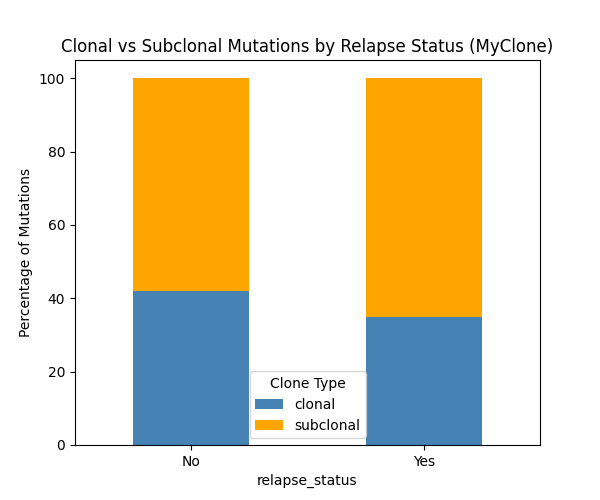
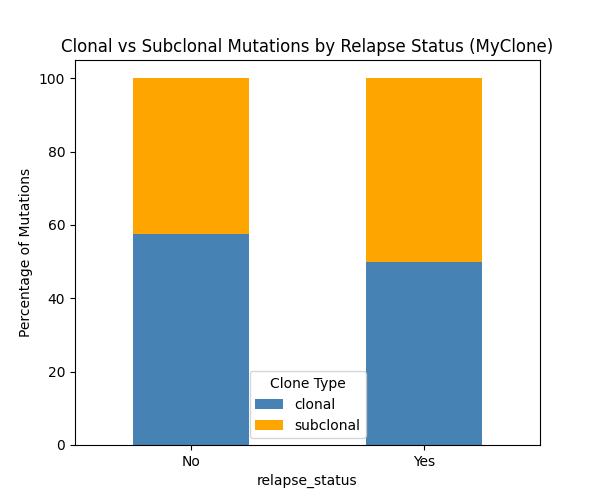
changed CCF cutoff to 0.5

Changed region(s): [[0.21, 0.45, 0.42, 0.6], [0.6, 0.51, 0.81, 0.66]]

diff --git a/generate_figures.py b/generate_figures.py
@@ -2,7 +2,7 @@ import pandas as pd
 import matplotlib.pyplot as plt
 import seaborn as sns
 
-output_file_path = "/Users/charlottecheung/Developer/FCBBioInfo/fcbbioProject/myclone-output_combined/myclone_results_combined.tsv"
+output_file_path = "/Users/charlottecheung/Developer/FCBBioInfo/fcbbioProject/pyclone_output_combined/pyclone_output_combined.tsv"
 #myclone_output_file_path = "/Users/charlottecheung/Developer/FCBBioInfo/fcbbioProject/myclone-output_combined/myclone_results_combined.tsv"
 #pyclone_output_file_path = "/Users/charlottecheung/Developer/FCBBioInfo/fcbbioProject/pyclone_output_combined/pyclone_output_combined.tsv"
 df = pd.read_csv(output_file_path, sep="\t")
@@ -20,8 +20,8 @@ plt.violinplot(
 )
 plt.ylabel("Number of Clusters Identified per Sample")
 plt.xticks([1], ["Samples"])
-plt.title("Number of Clusters Identified Per Sample with MyClone")
-plt.savefig("figures/myclone_num_clusters_violin_plot.png")
+plt.title("Number of Clusters Identified Per Sample with PyClone")
+plt.savefig("figures/pyclone_num_clusters_violin_plot.png")
 #plt.show()
 
 #figure: number of clusters per sample, relapse vs non relapse
@@ -34,10 +34,10 @@ sns.violinplot(
     y="num_clusters"
 )
 
-plt.title("Number of Clusters Identified per Sample with MyClone by Relapse Status")
+plt.title("Number of Clusters Identified per Sample with PyClone by Relapse Status")
 plt.xlabel("Relapse Status")
 plt.ylabel("Number of Clusters")
-plt.savefig("figures/myclone_num_clusters_relapse_violin_plot.png")
+plt.savefig("figures/pyclone_num_clusters_relapse_violin_plot.png")
 #plt.show()
 
 #figure: number of clusters per sample vs MRD
@@ -53,8 +53,8 @@ plt.scatter(
 
 plt.xlabel("Number of Clusters per Sample")
 plt.ylabel("MRD (%)")
-plt.title("MRD vs Clonal Complexity (MyClone)")
-plt.savefig("figures/myclone_mrd_vs_clusters_scatter.png")
+plt.title("MRD vs Clonal Complexity (PyClone)")
+plt.savefig("figures/pyclone_mrd_vs_clusters_scatter.png")
 #plt.show()
 
 #figure: Shannon index per sample
@@ -67,10 +67,10 @@ sns.violinplot(
     y="shannon_index"
 )
 
-plt.title("Clonal Diversity per Sample with MyClone")
+plt.title("Clonal Diversity per Sample with PyClone")
 plt.xlabel("Samples")
 plt.ylabel("Shannon Index")
-plt.savefig("figures/myclone_shannon_violin.png")
+plt.savefig("figures/pyclone_shannon_violin.png")
 #plt.show()
 
 #figure: Shannon index per sample relapse vs non-relapse
@@ -87,11 +87,11 @@ sns.violinplot(
     y="shannon_index"
 )
 
-plt.title("Clonal Diversity (Shannon Index) by Relapse Status (MyClone)")
+plt.title("Clonal Diversity (Shannon Index) by Relapse Status (PyClone)")
 plt.xlabel("Relapse Status")
 plt.ylabel("Shannon Index")
 
-plt.savefig("figures/myclone_shannon_by_relapse.png")
+plt.savefig("figures/pyclone_shannon_by_relapse.png")
 #plt.show()
 
 #figure: shannon index per sample vs MRD
@@ -107,13 +107,13 @@ plt.scatter(
 
 plt.xlabel("Shannon Index")
 plt.ylabel("MRD (%)")
-plt.title("MRD vs Clonal Diversity (MyClone)")
-plt.savefig("figures/myclone_mrd_vs_shannon_scatter.png")
+plt.title("MRD vs Clonal Diversity (PyClone)")
+plt.savefig("figures/pyclone_mrd_vs_shannon_scatter.png")
 #plt.show()
 
 #figure: Subclonal vs clonal by CCF
 df["clone_type"] = df["cellular_prevalence"].apply(
-    lambda x: "clonal" if x >= 0.75 else "subclonal"
+    lambda x: "clonal" if x >= 0.5 else "subclonal"
 )
 
 counts = (
@@ -146,9 +146,9 @@ pivot.plot(
 )
 
 plt.ylabel("Percentage of Mutations")
-plt.title("Clonal vs Subclonal Mutations by Relapse Status (MyClone)")
+plt.title("Clonal vs Subclonal Mutations by Relapse Status (PyClone)")
 plt.legend(title="Clone Type")
 plt.xticks(rotation=0)
 
-plt.savefig("figures/myclone_clonal_subclonal_relapse_stacked_bar.png")
+plt.savefig("figures/pyclone_clonal_subclonal_relapse_stacked_bar.png")
 plt.show()
